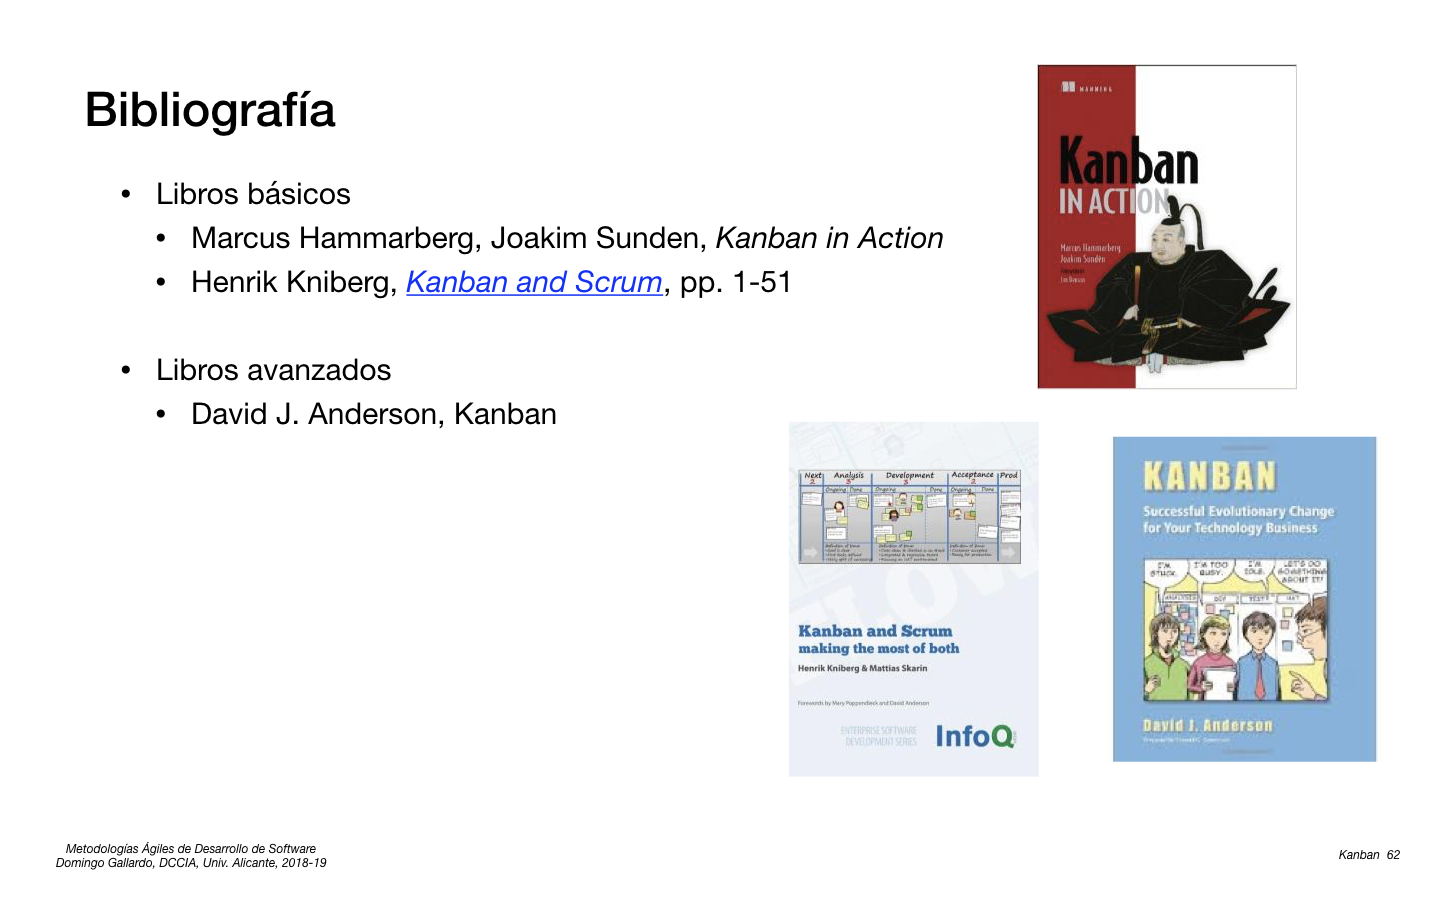
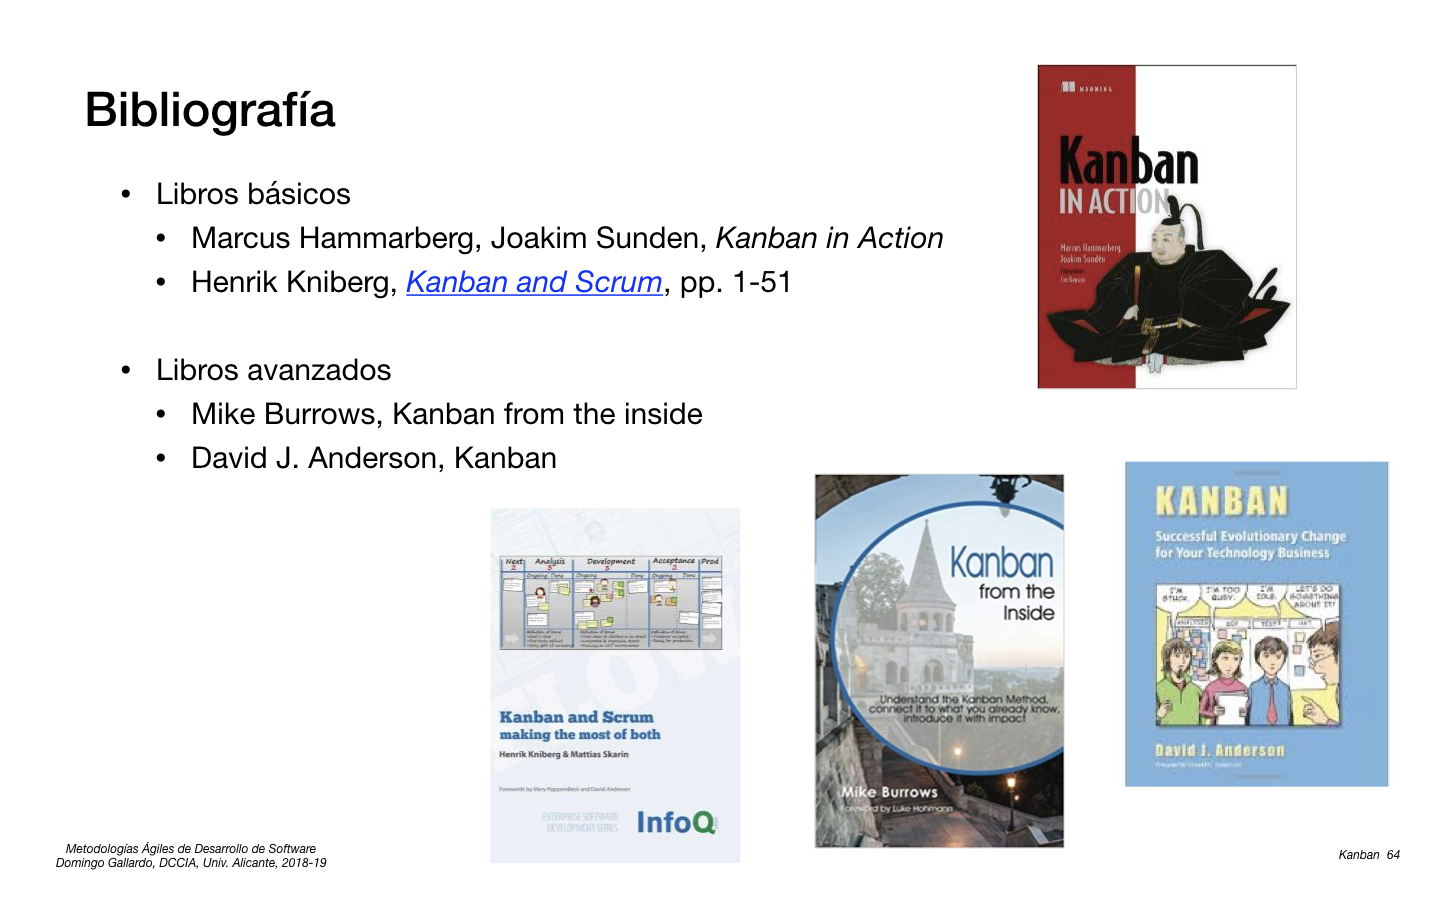
Modificaciones

diff --git a/sesiones/12-kanban/kanban.md b/sesiones/12-kanban/kanban.md
@@ -208,6 +208,8 @@ comprometerse a demasiado trabajo a la vez.
   tareas en desarrollo del equipo. El segundo funcionalidades o
   historias de usuario.
 
+<kbd><img src="diapositivas/kanban.039a.png" width="800px"></kbd>
+
 <kbd><img src="diapositivas/kanban.039b.png" width="800px"></kbd>
 
 <kbd><img src="diapositivas/kanban.040.png" width="800px"></kbd>
